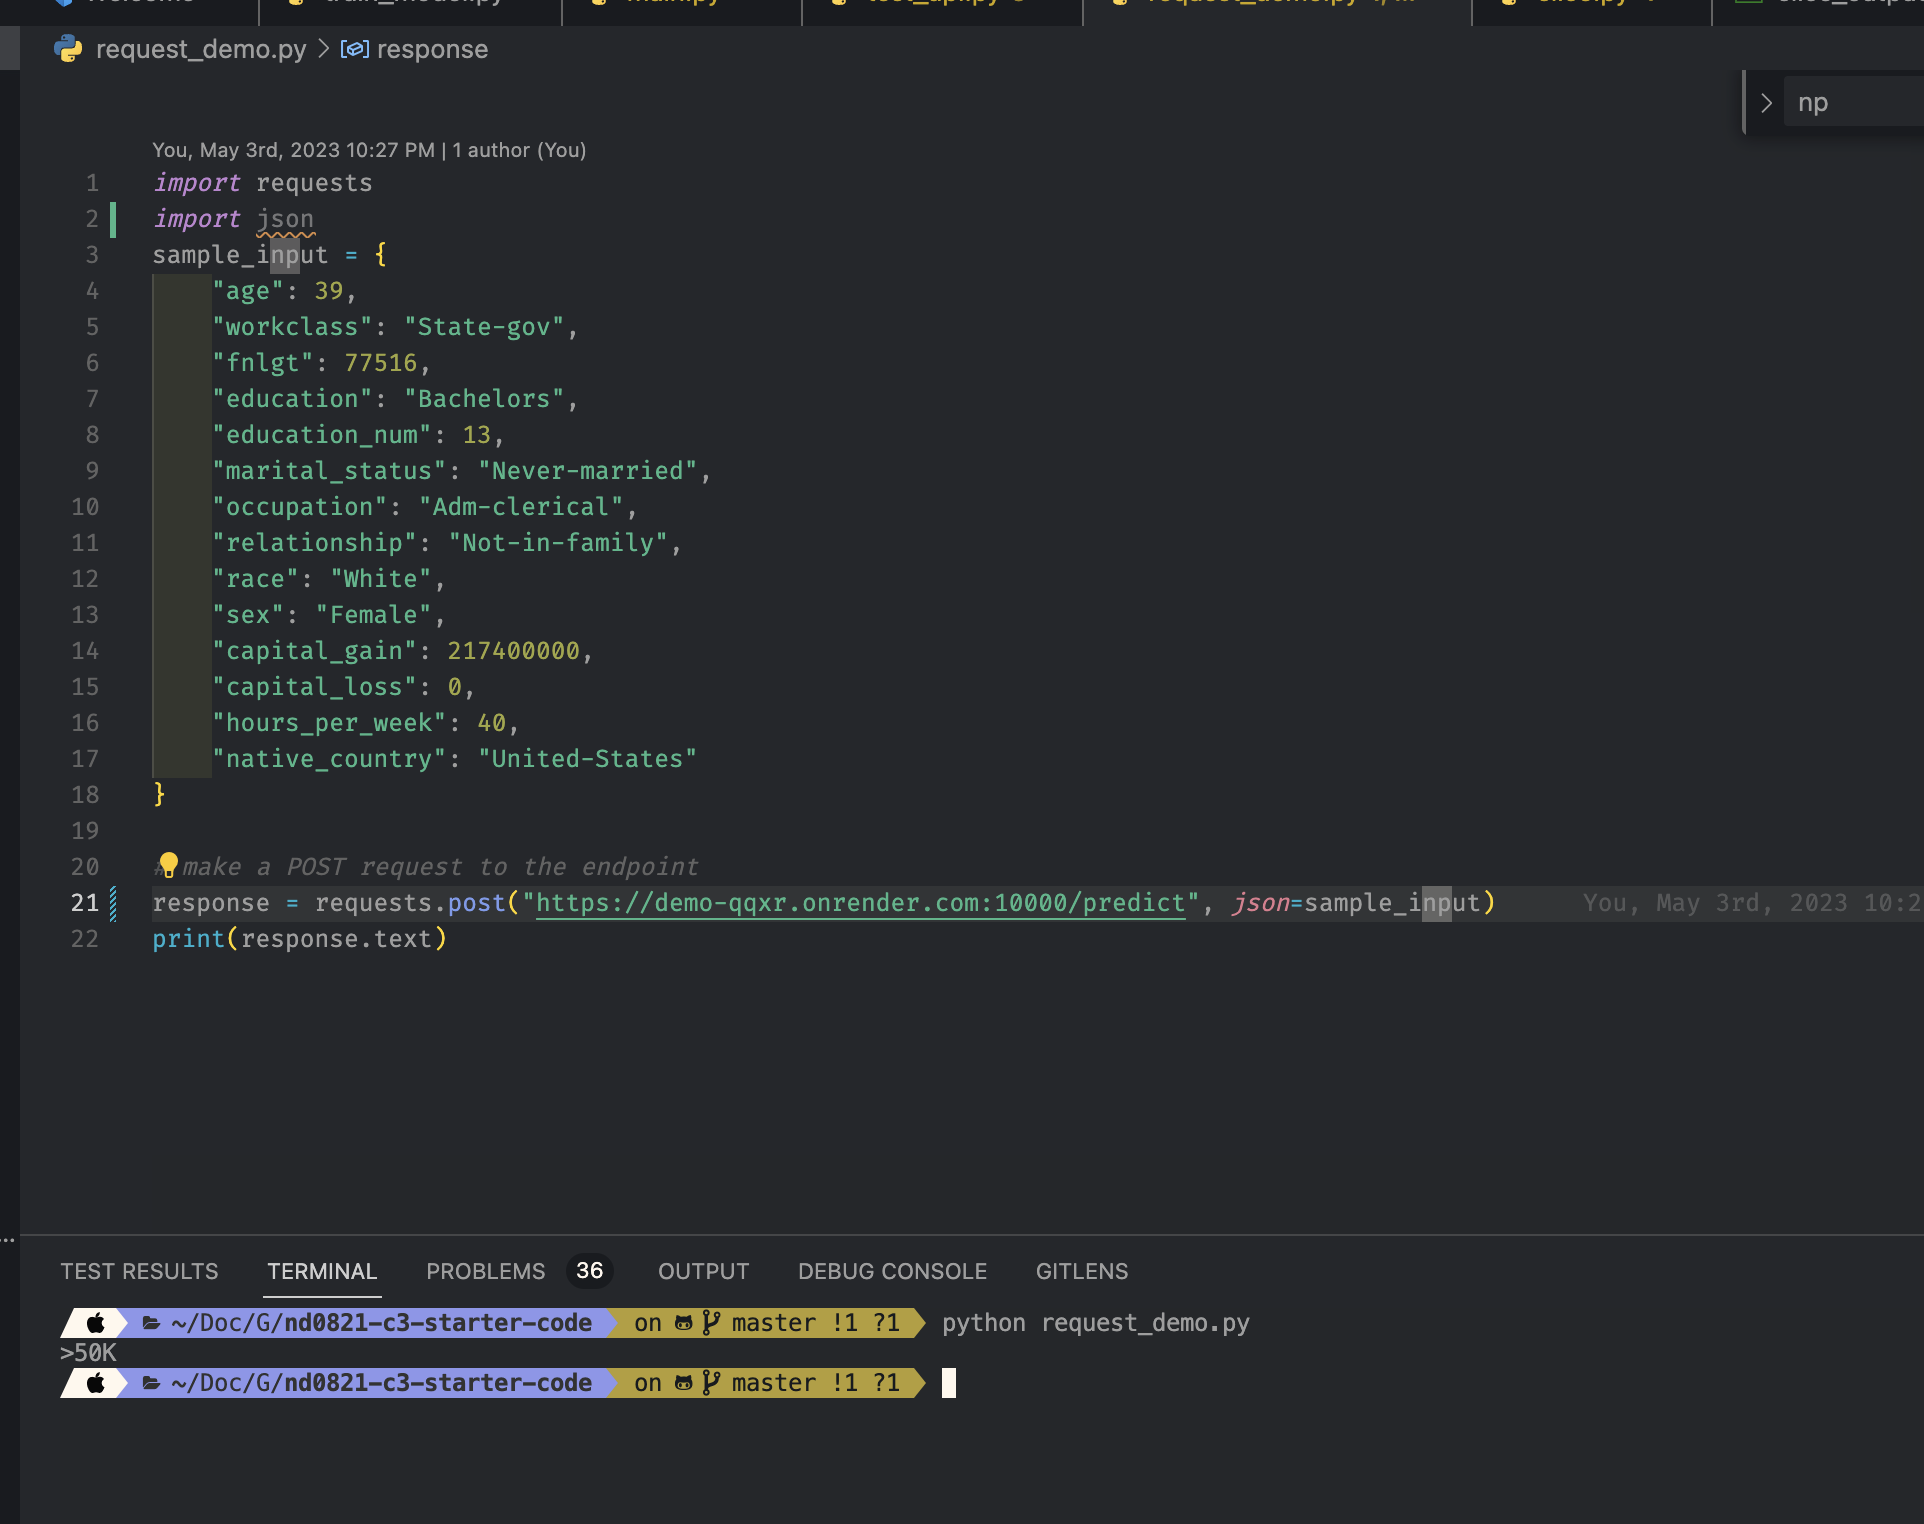
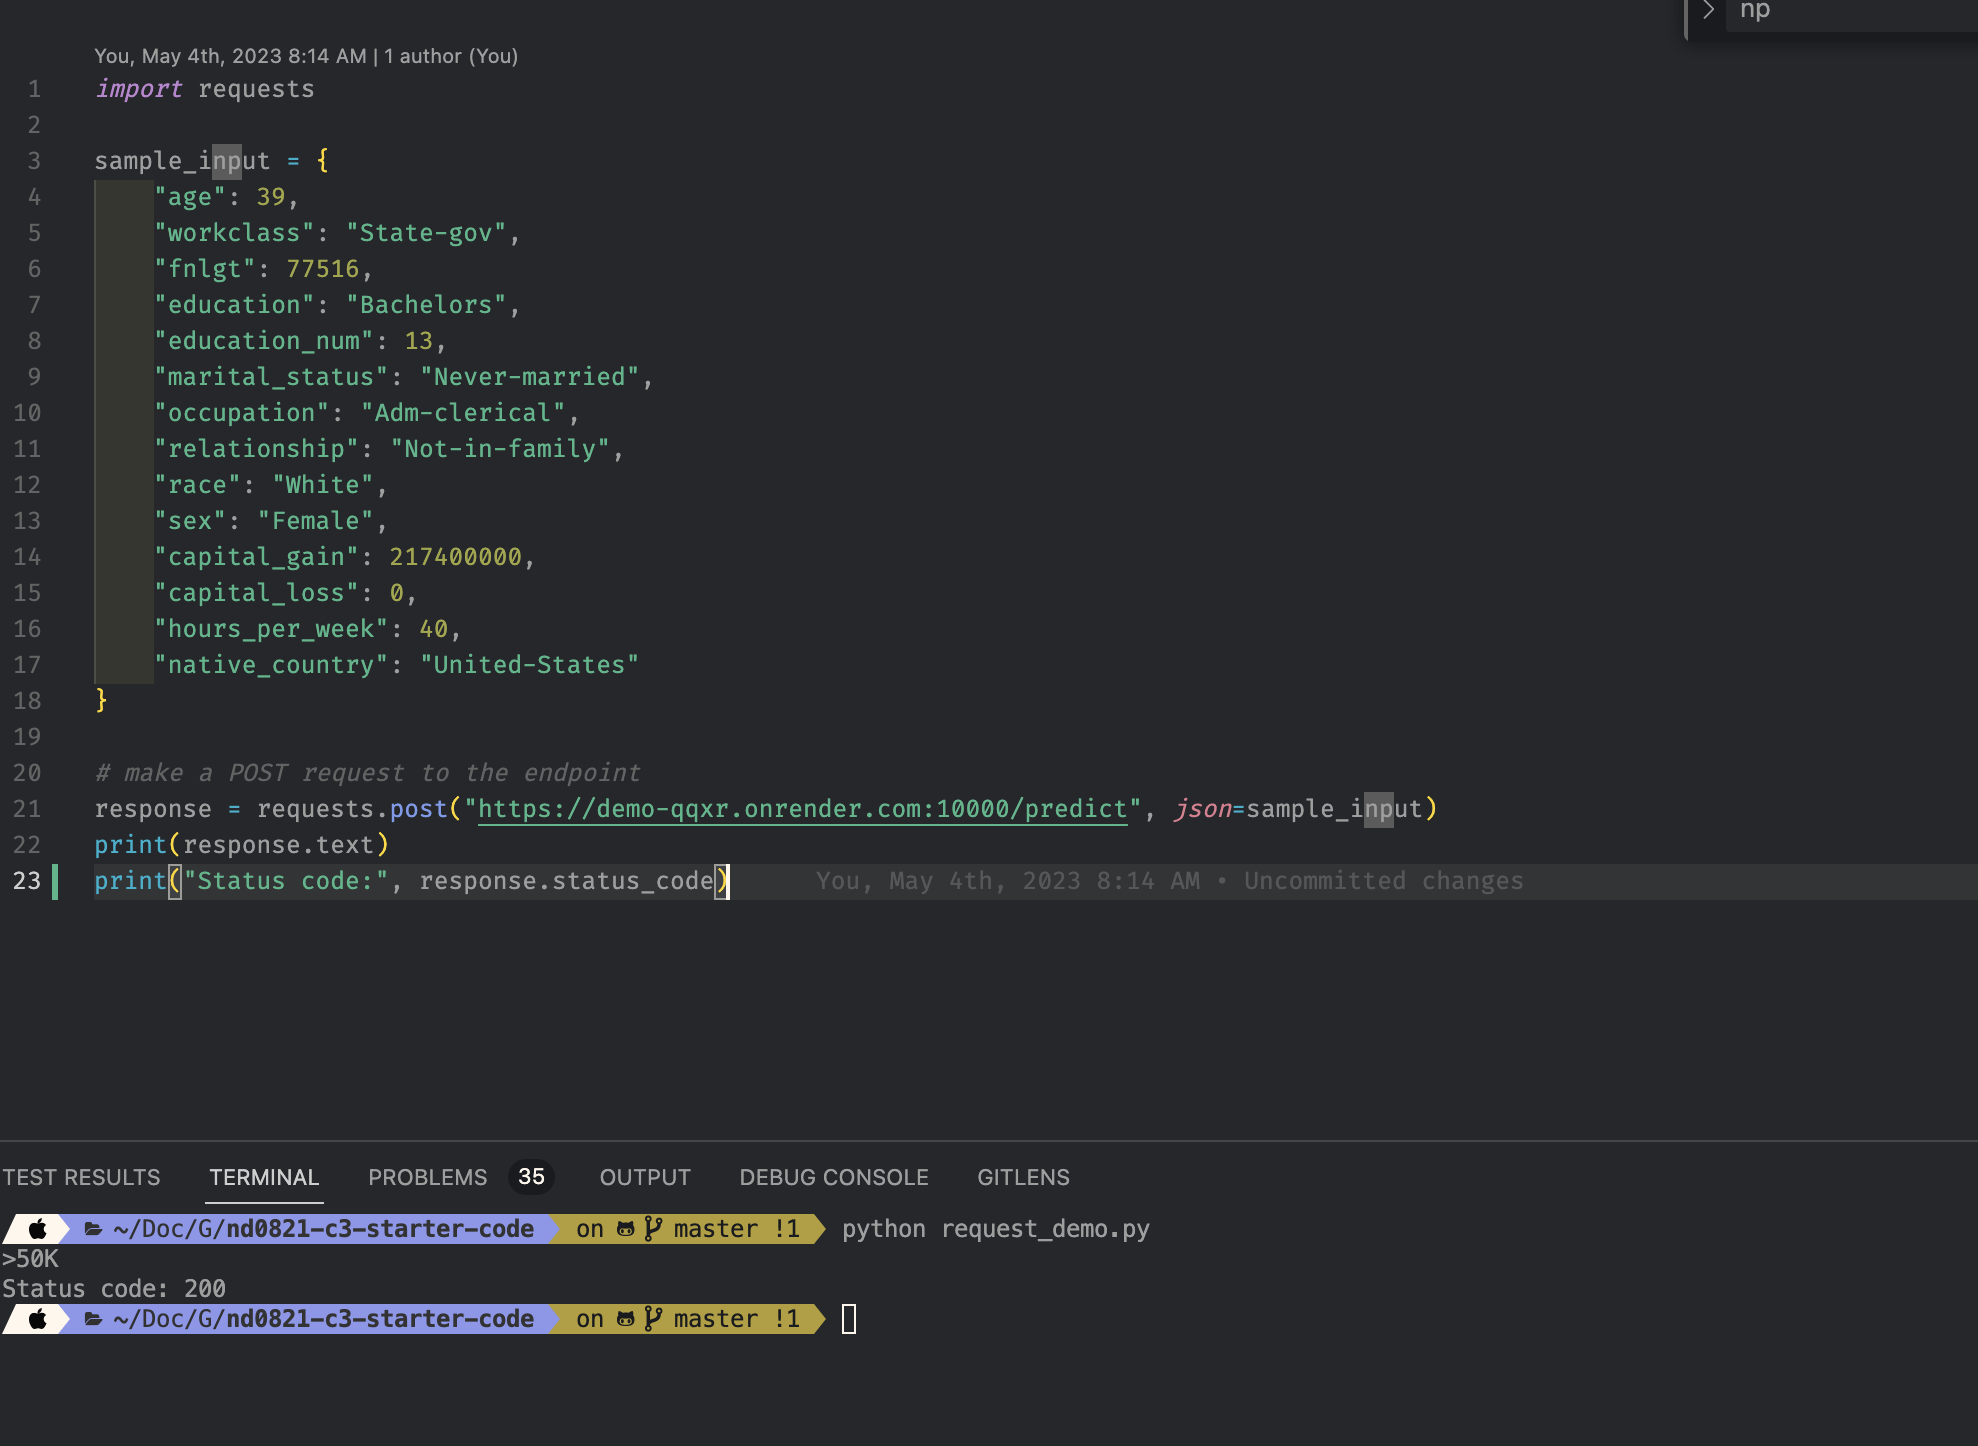
Final?

diff --git a/src/test_api.py b/src/test_api.py
@@ -36,22 +36,22 @@ def test_predict_sub_50():
 
     response = client.post("/predict", json=sample_input)
     assert response.status_code == 200
-    assert response.text.strip() in ["<=50K", ">50K"]
+    assert response.text == "<=50K"
 
 def test_predict_over_50():
-    # create a sample input for the model
+    # create a sample input for the model 
     sample_input = {
-        "age": 39,
-        "workclass": "State-gov",
-        "fnlgt": 77516,
-        "education": "Bachelors",
-        "education_num": 13,
-        "marital_status": "Never-married",
-        "occupation": "Adm-clerical",
-        "relationship": "Not-in-family",
-        "race": "White",
-        "sex": "Female",
-        "capital_gain": 217400000,
+        "age": 49,
+        "workclass": "Private",
+        "fnlgt": 81973,
+        "education": "Some-college",
+        "education_num": 10,
+        "marital_status": "Married-civ-spouse",
+        "occupation": "Craft-repair",
+        "relationship": "Husband",
+        "race": "Asian-Pac-Islander",
+        "sex": "Male",
+        "capital_gain": 0,
         "capital_loss": 0,
         "hours_per_week": 40,
         "native_country": "United-States"

diff --git a/request_demo.py b/request_demo.py
@@ -20,3 +20,4 @@ sample_input = {
 # make a POST request to the endpoint
 response = requests.post("https://demo-qqxr.onrender.com:10000/predict", json=sample_input)
 print(response.text)
+print("Status code:", response.status_code)
